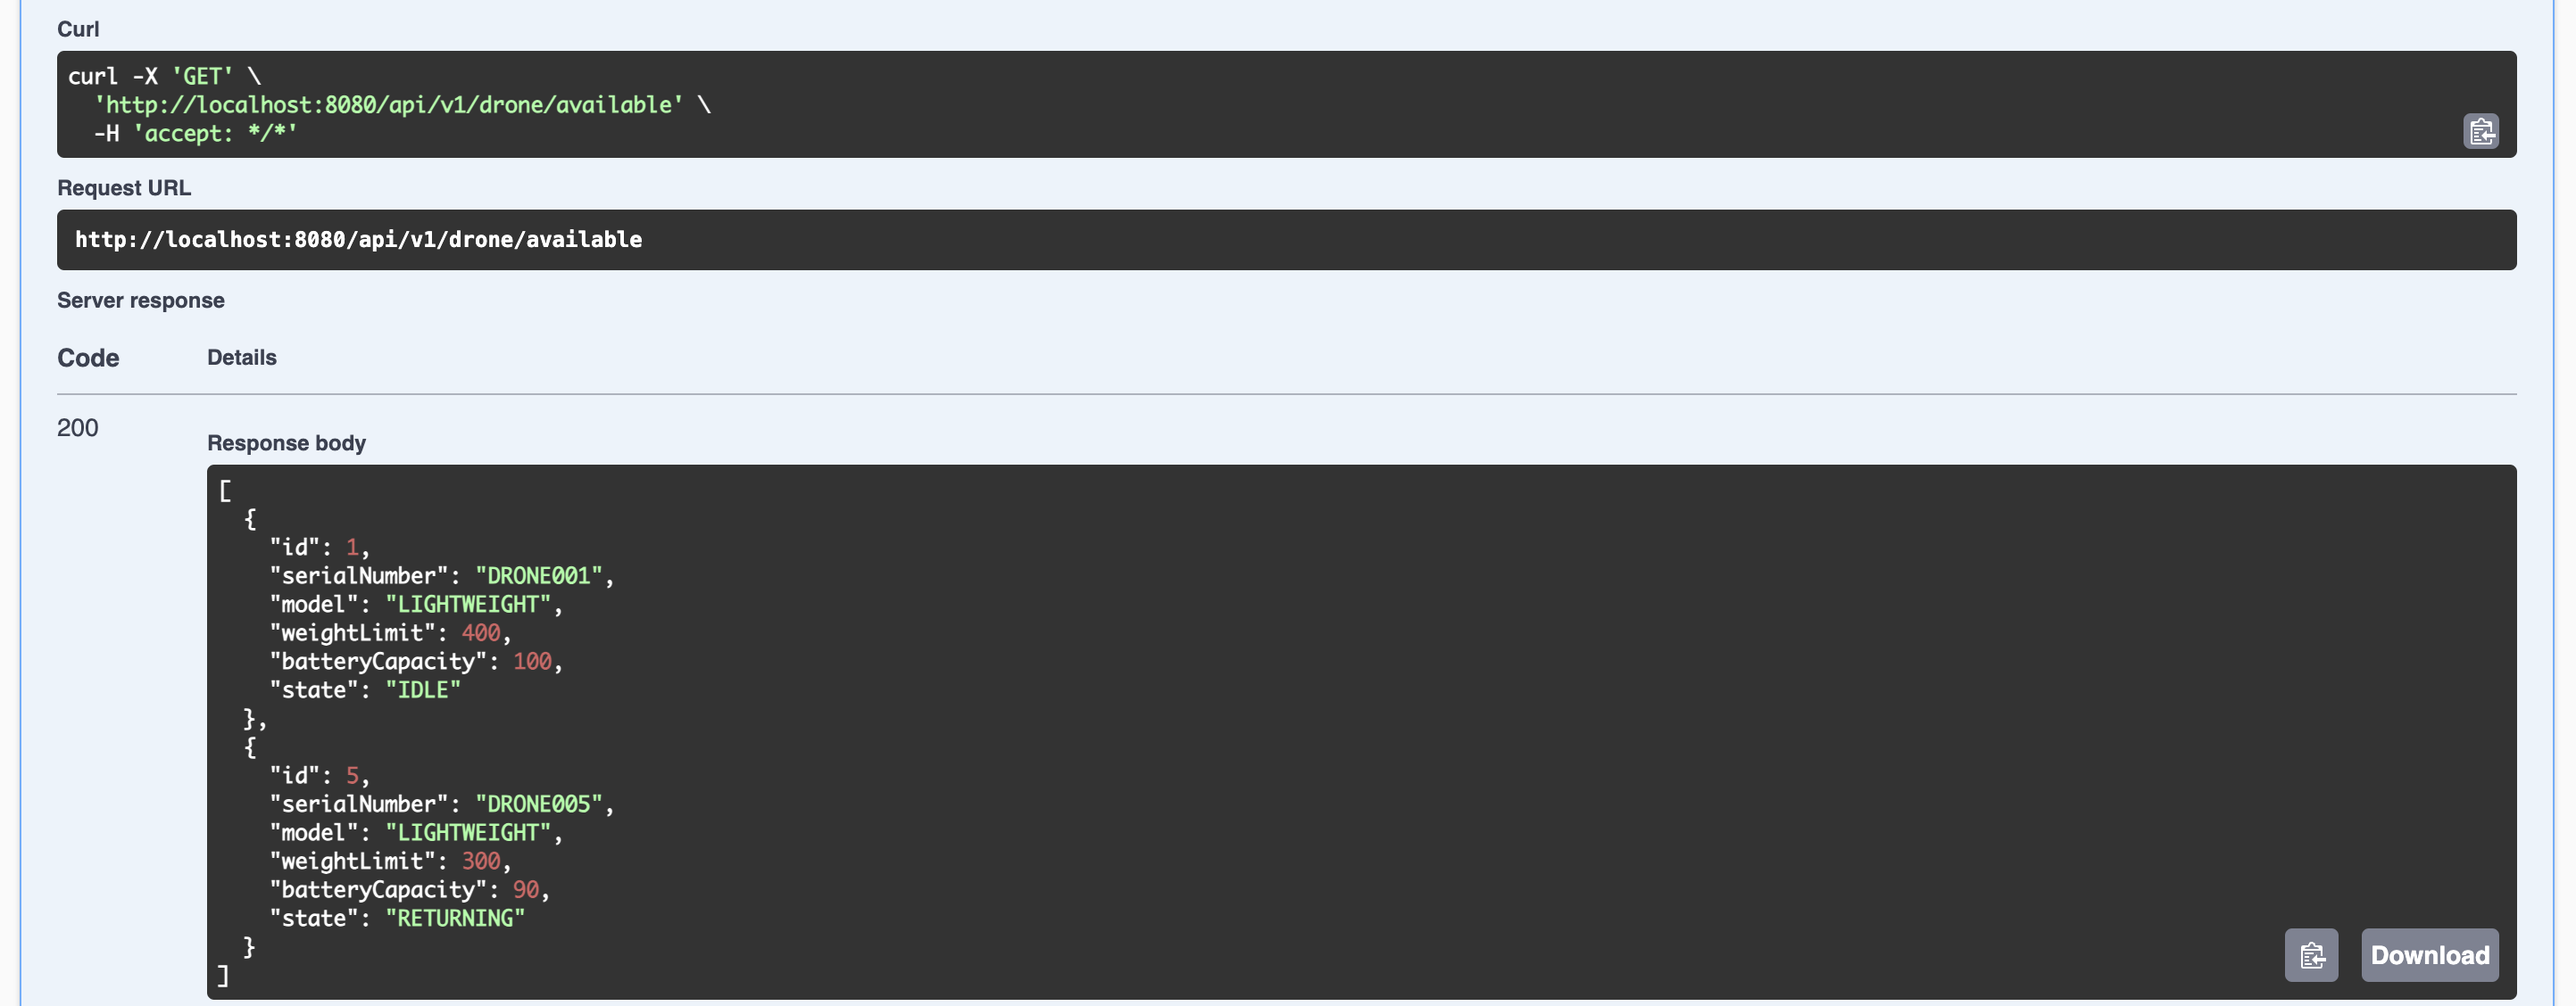
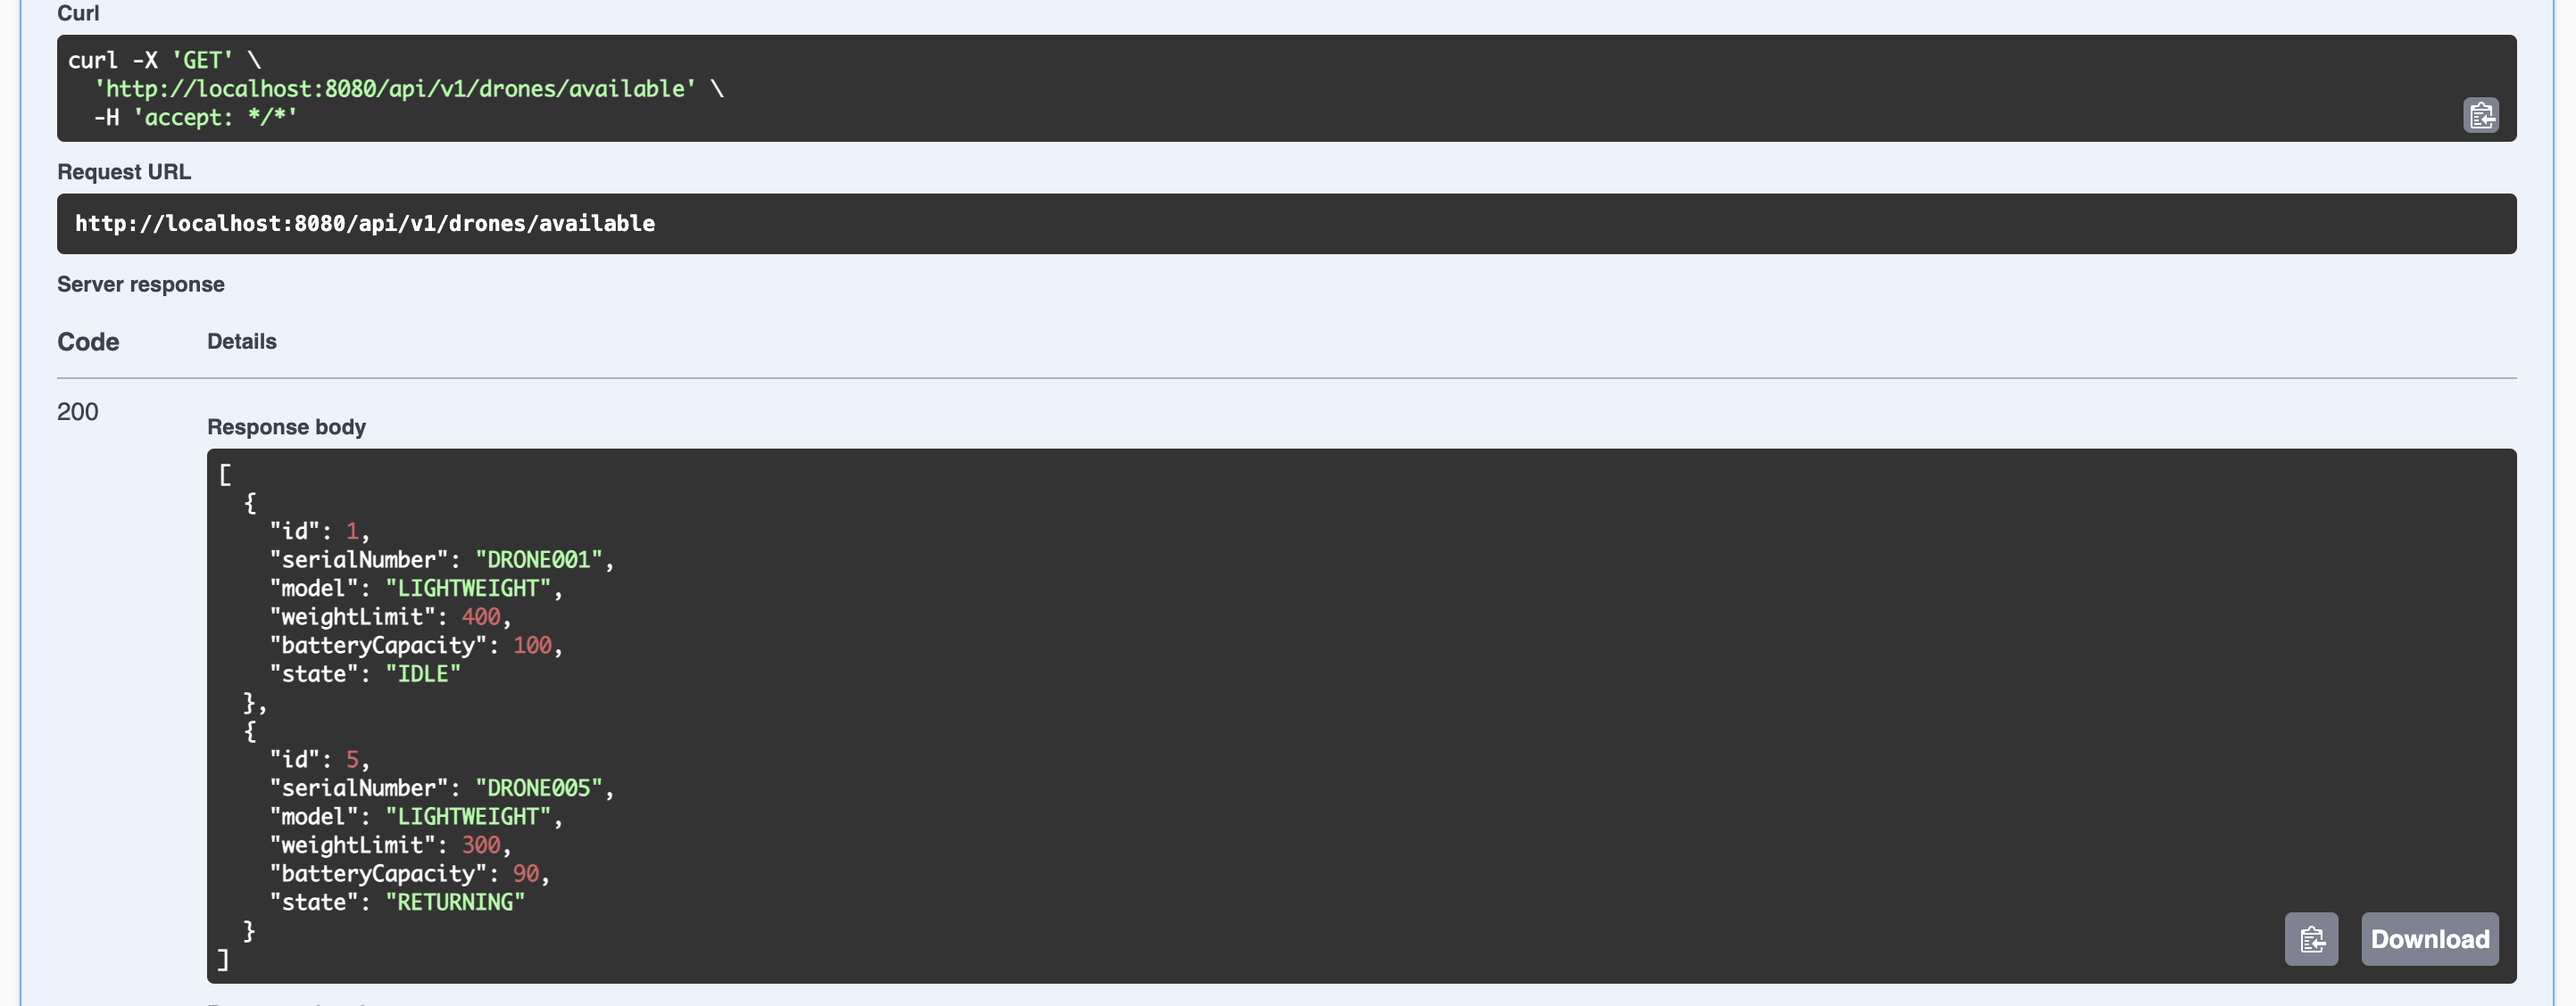
update api endpoint, and readme file

diff --git a/src/main/java/com/elmenus/drones/controller/DroneController.java b/src/main/java/com/elmenus/drones/controller/DroneController.java
@@ -13,7 +13,7 @@ import org.springframework.web.bind.annotation.*;
 import java.util.List;
 
 @RestController
-@RequestMapping("${api.drone}")
+@RequestMapping("${api.drones}")
 @Slf4j
 public class DroneController {
 
